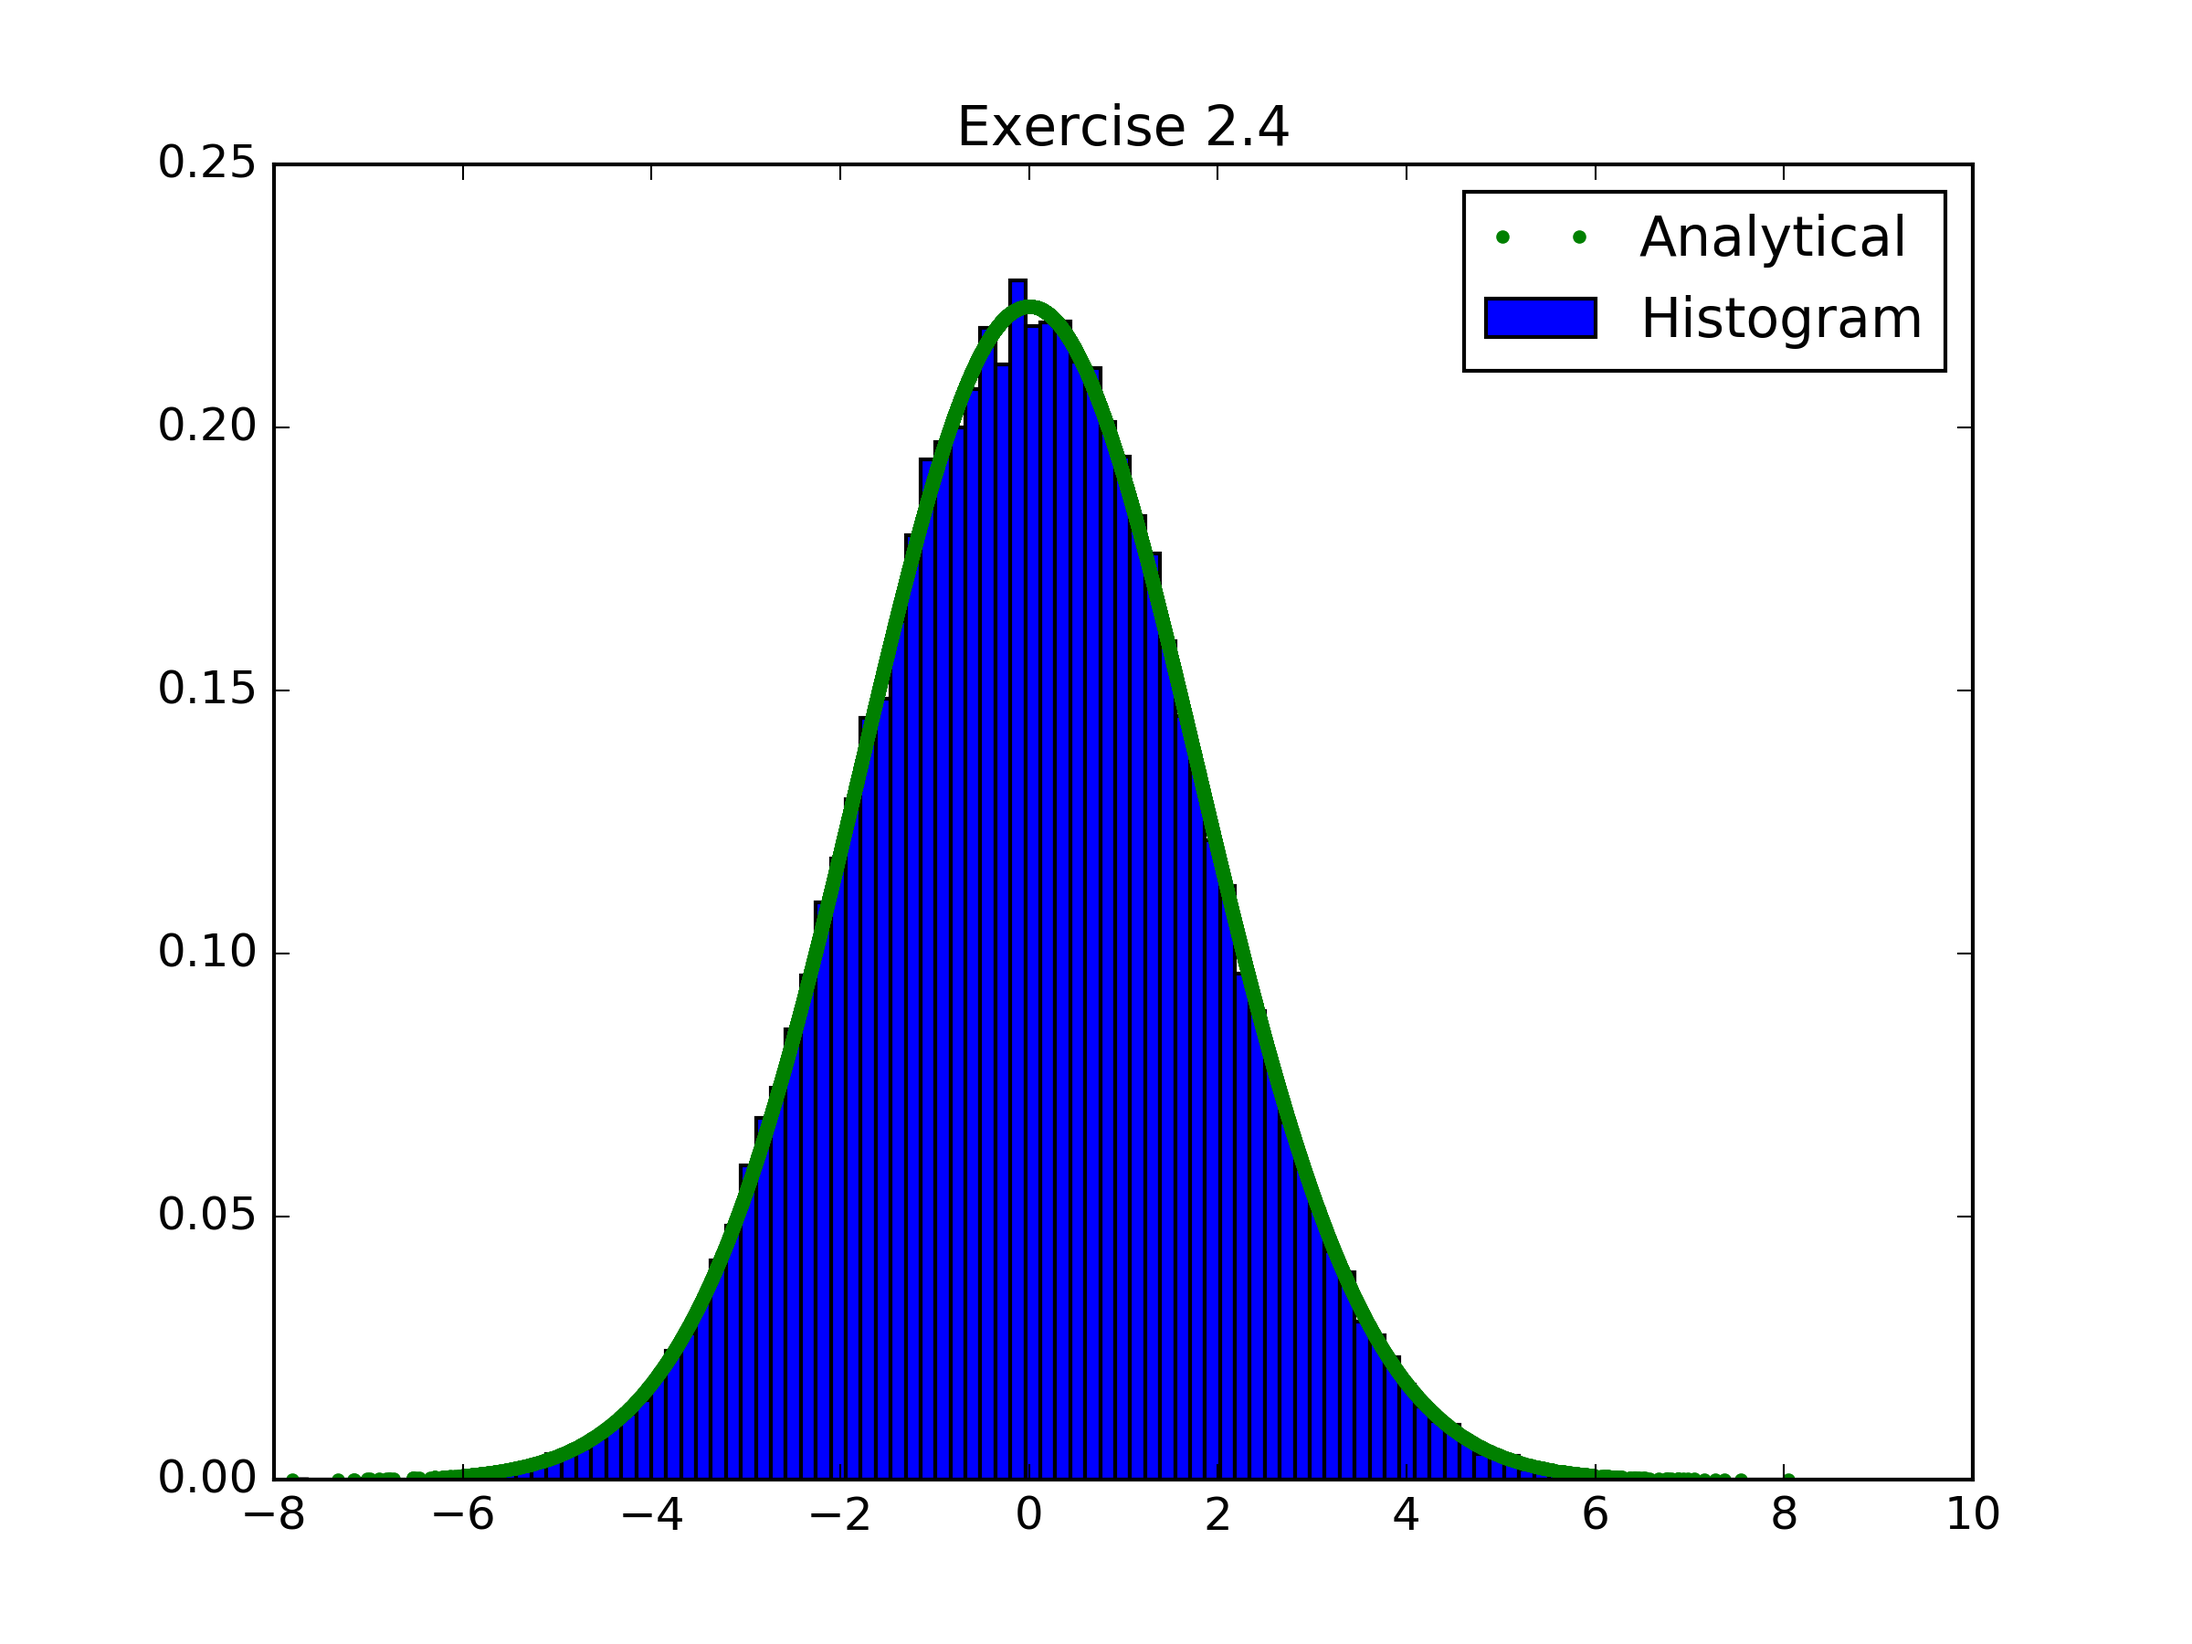
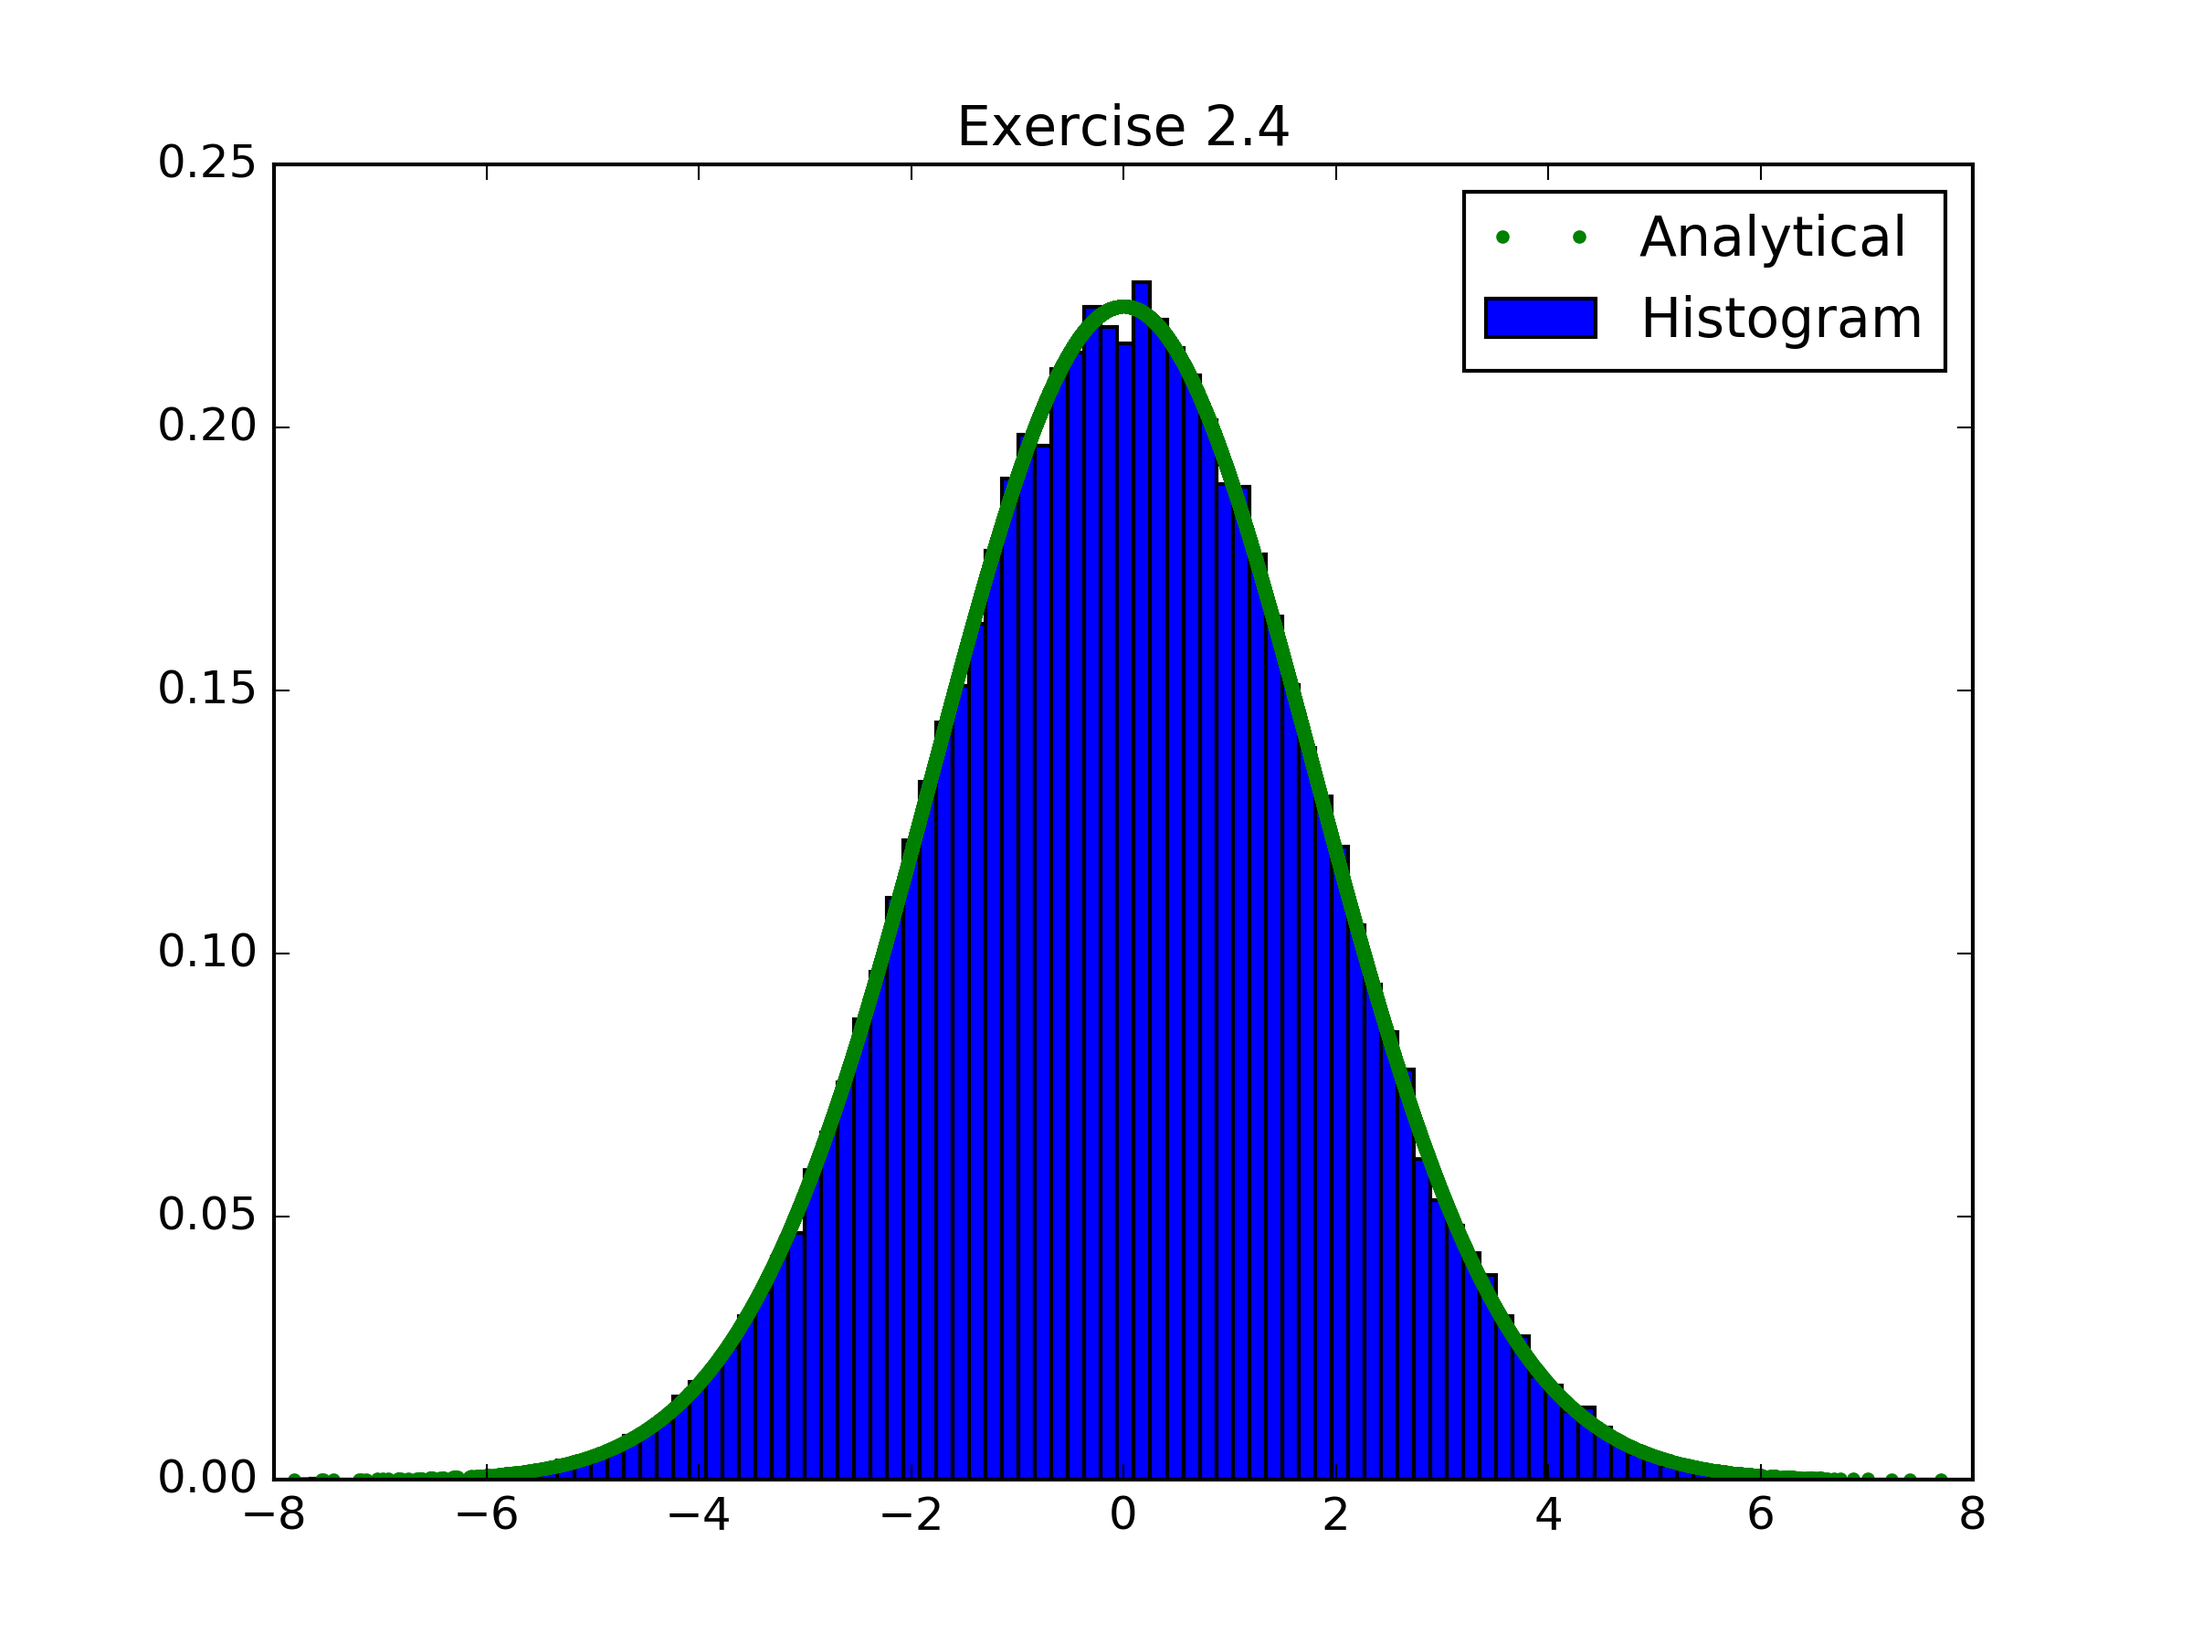
inital run. something's wrong with ex25

Changed region(s): [[0.2188, 0.1556, 0.8438, 0.9333], [0.875, 0.9022, 0.9062, 0.9333]]

diff --git a/program.py b/program.py
@@ -10,7 +10,35 @@ def sigma(Sc):
 def P(delta, Sc):
     return pl.exp( -(delta**2)/(2.*sigma(Sc)**2) )/(sigma(Sc)*(2*pl.pi)**0.5)
 
+def Pnc(delta, Sc):
+    return P(delta, Sc) - pl.exp( -(2 - delta)**2/(2.*sigma(Sc)**2) )/(sigma(Sc)*(2*pl.pi)**0.5)
+
 def run():
+    N = int(1e5)
+
+    epsilon = 0.99
+    Sc = 2*(10*(pl.pi**0.25))
+    sigma_init = sigma(Sc)
+    delta = np.random.normal(loc=0.0, scale=sigma_init, size=N)
+
+    while Sc > 1.0:
+        Sc_new = Sc*epsilon
+        sigma_new = (sigma(Sc_new)**2 - sigma(Sc)**2)**0.5
+        Beta = np.random.normal(loc=0.0, scale=sigma_new, size=N)
+        delta += Beta
+
+        Sc = Sc_new
+    
+    pl.figure()
+    pl.hist(delta, normed=1, bins=100, label="Histogram")
+        
+    prob = P(delta, Sc)
+    pl.plot(delta, prob, '.', label="Analytical")
+    pl.legend(loc='best')
+    pl.title("Exercise 2.4")
+    pl.savefig("ex24.png", dpi=300)
+
+def run_again():
     N = int(1e5)
 
     epsilon = 0.99
@@ -29,30 +57,15 @@ def run():
                 overlist.append(k)
 
         Sc = Sc_new
-    
-    pl.figure()
-    pl.hist(delta, normed=1, bins=100, label="Histogram")
-        
-    prob = P(delta, Sc)
-    pl.plot(delta, prob, '.', label="Analytical")
-    pl.legend(loc='best')
-    pl.title("Exercise 2.4")
-    pl.savefig("ex24.png", dpi=300)
 
-    ####
+    #overlist = pl.unique(pl.sort(pl.array(overlist)))
 
-    delta_mod = []
-    for i in range(len(delta)):
-        for j in overlist:
-            if i != j:
-                delta_mod.append(delta[i])
-
-    delta_mod = pl.array(delta_mod)
+    delta_mod = pl.delete(delta, overlist)
 
     pl.figure()
     pl.hist(delta_mod, normed=1, bins=100, label="Histogram")
     
-    prob = P(delta_mod, Sc)
+    prob = Pnc(delta_mod, Sc)
     pl.plot(delta_mod, prob, '.', label="Analytical")
     pl.legend(loc='best')
     pl.title("Exercise 2.5")
@@ -62,3 +75,4 @@ def run():
 
 if __name__ == '__main__':
     run()
+    run_again()
